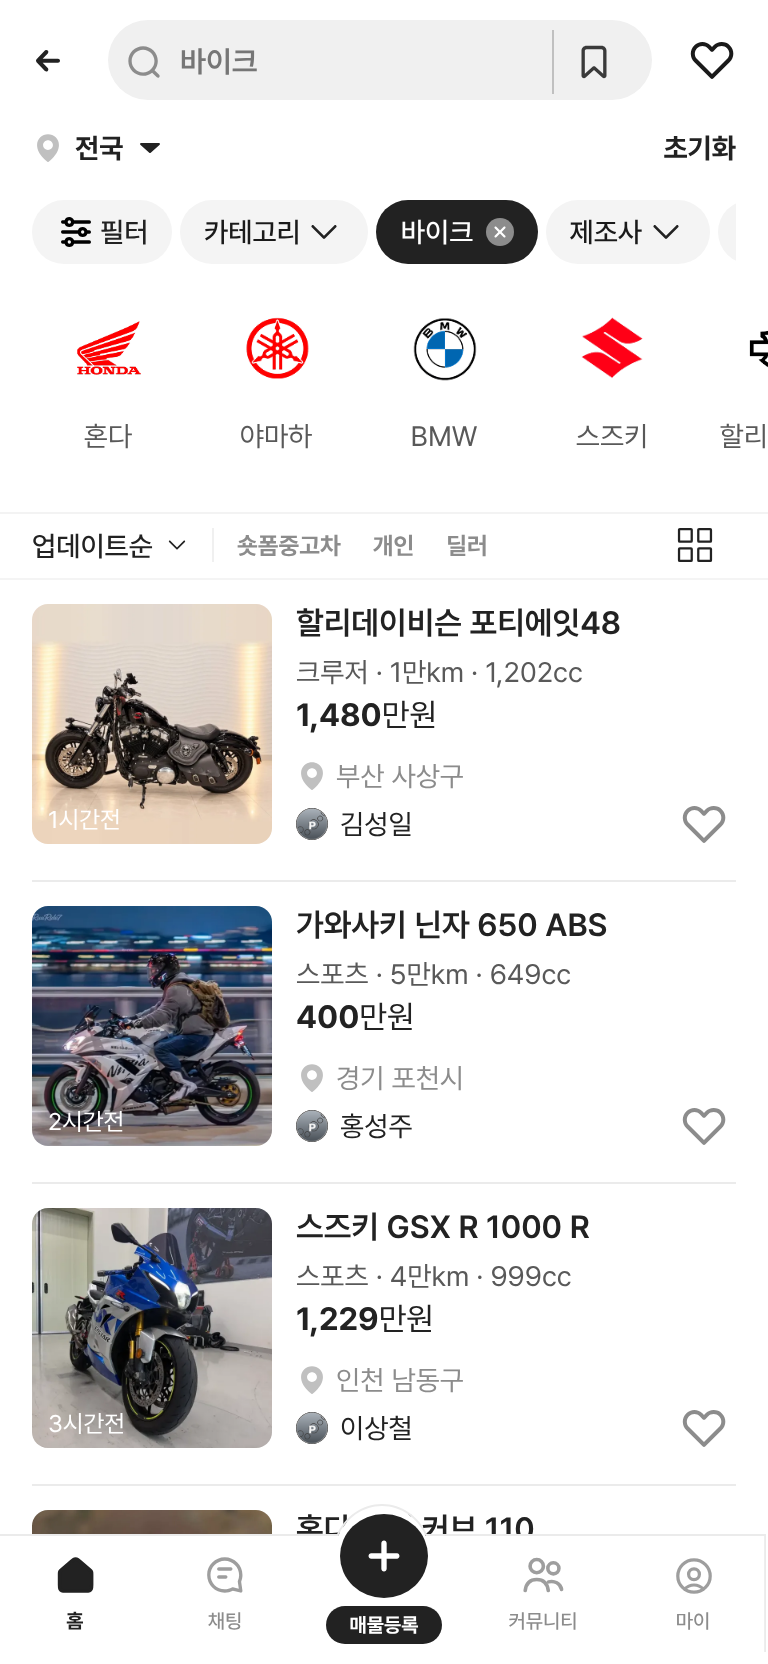
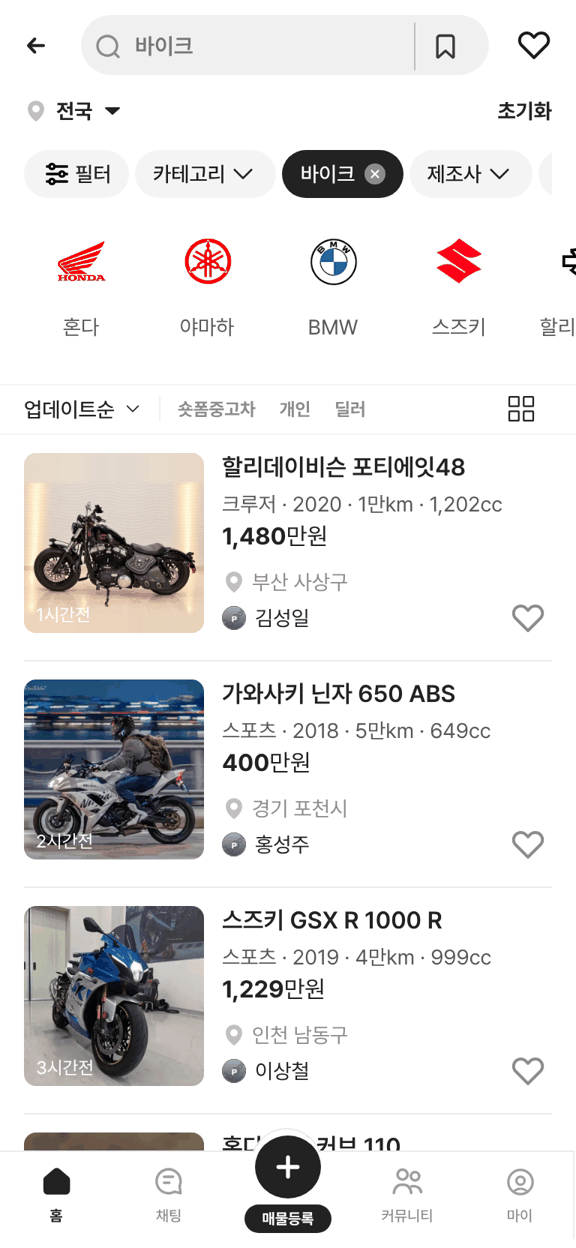
목록 카드 연식은 년식 글자 없이 숫자만 표기
Claude-Session: https://claude.ai/code/session_01Rmx988oHBPtkyNprxfe4A1

diff --git a/src/prototype/data/bbm-card-samples.ts b/src/prototype/data/bbm-card-samples.ts
@@ -27,9 +27,12 @@ const fuelLabel = (source: SampleSource) => {
   return fuel;
 };
 
-// 목록 카드 스펙 줄에는 「N년식」 글자를 넣지 않는다(2026-10-08 「년식 빼자 텍스트」 · 「전체차량 리스트에서도 빼라」)
+// 목록 카드 스펙 줄의 연식은 「년식」 글자 없이 숫자만(2017년식 → 2017, 2026-10-08 「2002 숫자만 표기하자」)
 export function bbmCardSpec(source: SampleSource, withPower = true) {
-  return cardSpecText(source, withPower).split(" · ").filter((part) => !/^\d{2,4}년식$/.test(part.trim())).join(" · ");
+  return cardSpecText(source, withPower).split(" · ").map((part) => {
+    const year = part.trim().match(/^(\d{2}|\d{4})년식$/);
+    return year ? (year[1].length === 2 ? `20${year[1]}` : year[1]) : part;
+  }).join(" · ");
 }
 
 function cardSpecText(source: SampleSource, withPower: boolean) {
@@ -76,8 +79,8 @@ function cardSpecText(source: SampleSource, withPower: boolean) {
     const power = [source.truck.horsepower ? `${source.truck.horsepower}마력` : "", inTitle(loadLabel) ? "" : loadLabel, inTitle(source.truck.drive ?? "") ? "" : source.truck.drive ?? ""].filter(Boolean);
     return [`${String(year % 100).padStart(2, "0")}년${String(month).padStart(2, "0")}월`, mileageLabel(source), fuelLabel(source), ...power].filter(Boolean).join(" · ");
   }
-  // 바이크 스펙 줄은 장르 · 주행 · 배기량(2026-10-08 「년식 빼자 텍스트」)
-  if (source.bike) return [source.bike.genre, mileageLabel(source), `${source.bike.displacement.toLocaleString("ko-KR")}cc`].join(" · ");
+  // 바이크 스펙 줄은 장르 · 연식(숫자만) · 주행 · 배기량(2026-10-08 「2002 숫자만 표기하자」)
+  if (source.bike) return [source.bike.genre, String(yearFromSpecs(source)), mileageLabel(source), `${source.bike.displacement.toLocaleString("ko-KR")}cc`].join(" · ");
   const year = yearFromSpecs(source);
   const month = ((source.id * 5) % 12) + 1;
   // 목록은 등록연월만 간결하게 표시한다. 연형은 상세 정보에서 다룬다.

diff --git a/src/prototype/data/index.tsx b/src/prototype/data/index.tsx
@@ -872,7 +872,7 @@ const virtualPlace = (address: string) => address.replace(/\s*·\s*가상 매물
 
 // 사용자 지시 매물(2026-10-07): 샘플 배지 없이 지시값 스펙 줄 고정
 const bikeListingOverridesV01: Record<string, { cardSpec: string[] }> = {
-  "bike-001": { cardSpec: ["크루저", "1만km", "1,202cc"] },
+  "bike-001": { cardSpec: ["크루저", "2020", "1만km", "1,202cc"] },
 };
 // 2026-10-08: 바이크 시트 매물(v08)은 게시일 최신순(같은 날은 시트 순서), 사용자 지시 매물 bike-001은 맨 위. updateRank로 업데이트순을 고정한다
 const bikeInventoryOrdered = [...bikeInventory].sort((a, b) => (a.postedDays ?? -1) - (b.postedDays ?? -1));

diff --git a/docs/quick-filter-spec.md b/docs/quick-filter-spec.md
@@ -258,8 +258,8 @@
 - A vehicle title is always two semantic rows, not one title that happens to wrap: row 1 is manufacturer + model (`.bbm-card-model`), and row 2 is detailed model/trim (`.bbm-card-trim`). Each row stays on one line and ellipsizes independently. Do not add an arbitrary margin between the detailed-model row and the specification row.
 - List view: title 15/19 600, specification 13px, location 14px #8C8C8C (whole line), seller 14px #222 (ChoTot remeasure: location and seller are the same size; Pretendard Hangul ≈0.87em so 14px matches ChoTot ink height ≈12.4), price 16px 700 #222, and price unit 400 #222 (no red; Hyundai-certified style, the unit only drops weight). Feed view: title 16/24, specification 14px, location 14px, price 17px 700, and price unit 14px.
 - 바이크 매물 v08(2026-10-08 「바이크 카테고리도 럭셔리카처럼 실제 매물 같은 정보로」): 바이크 목록은 사용자 지시 매물 `bike-001`(할리 포티에잇48, 맨 위) + 구글 시트 「가상 매물 시나리오 › 바이크」 50행(`src/prototype/bike/scenario-v08.ts`, 사진 `public/assets/bike/listings/v08/`)이다. v07의 나머지 가상 29대는 목록에서 뺐다. 제조사·모델·연식·주행·지역·가격·배기량·서류·판매자 기재 상태·튜닝·정비 요약은 시트 값 그대로, 장르·면허·변속기는 모델 기준으로 정한 값, 판매자 이름은 가상(개인 = 가상 인물 이름, 업체 = `가상 이름 딜러`). 라이트바겐 인증중고 매물만 「인증중고차」 배지(샘플 배지 없음), 업데이트순은 시트 게시일 최신순(`updateRank`, 게시 0일 = N시간 전 · 그 외 N일 전). 원본 상세 URL·매물 ID는 저장하지 않는다. 목록 썸네일은 럭셔리카 규칙 사본(43장, 근접 사진 5장 · 차 영역 오인 2장 제외).
-- 바이크 카드(2026-10-07): 제목은 `제조사 모델` 한 줄(2행 없음), 스펙 줄은 `장르 · 주행 · 배기량`(예: `네이키드 · 2만km · 2,300cc`, 2026-10-08 「년식 빼자 텍스트」로 연식 글자 제거).
-- 목록 카드 스펙 줄에는 「N년식」 글자를 넣지 않는다(2026-10-08 「년식 빼자 텍스트」 · 「전체차량 리스트에서도 빼라」). 전체차량과 모든 카테고리 목록에 같은 규칙(`bbmCardSpec`이 `N년식` 항목을 걸러냄)이며, 등록연월(`24년08월`)·연형(`18년형`)은 그대로 둔다. 상세 화면의 연식은 그대로다.
+- 바이크 카드(2026-10-07): 제목은 `제조사 모델` 한 줄(2행 없음), 스펙 줄은 `장르 · 연식 · 주행 · 배기량`(예: `네이키드 · 2023 · 2만km · 2,300cc`, 2026-10-08 「2002 숫자만 표기하자」로 연식은 숫자만).
+- 목록 카드 스펙 줄의 연식은 「년식」 글자 없이 네 자리 숫자만 쓴다(`2017년식` → `2017`, `24년식` → `2024`; 2026-10-08 「년식 빼자 텍스트」 · 「전체차량 리스트에서도」 · 「2002 숫자만 표기하자」). 전체차량과 모든 카테고리 목록에 같은 규칙(`bbmCardSpec`)이며, 등록연월(`24년08월`)·연형(`18년형`)은 그대로 둔다. 상세 화면의 연식은 그대로다.
 - 건설기계 카드: 제목은 `제조사 모델` 한 줄(2행 없음, 제조사 미확인 매물은 원래 매물명), 스펙 줄은 `등록연월 · 사용시간 · 연료`(`1,800시간`, 2026-10-08 「h → 시간」; 자재운반장비도 `480시간`).
 - 부품/용품 카드(2026-10-07): 제목 `제조사 모델 분류`(분류 낱말이 모델명에 있으면 생략), 스펙 줄 `규격 · 수량 · 적용 차종 · 상태`(예: `245/45R18 · 4개 · 그랜저 GN7 · 중고 80%`), 가격은 부품 가격대(`partsCardDetailsV01`, 3~420만원). 연식·연료·변속기·「해당 없음」은 넣지 않는다.
 - 부품/용품 필터(2026-10-07): 상단 칩은 연식·주행거리·연료 대신 `분류 · 상태 · 적용 차종 · 가격`. 좌측 필터·모바일 전체 필터 순서는 `partsFilterOrder`(브랜드 → 분류 → 상태 → 적용 차종 → 가격 → 지역). 가격 구간은 `partsPricePresets`(`~5만원 · 5~20만원 · 20~50만원 · 50~100만원 · 100~300만원 · 300만원~`)이고 리스·렌트 탭은 숨긴다. 상태는 `새 상품 · 미사용 · 중고`(중고 NN%는 중고로), 적용 차종의 `범용 5x112` 등은 `범용`으로 묶는다.
@@ -351,7 +351,7 @@
 - 트럭·특장 이미지·로고 퀵필터도 다른 카테고리와 동일하게 좌측 제목 슬롯을 사용하지 않는다. 형식·세부 형식·제조사·모델·세부모델은 PC 20px, 모바일 16px에서 바로 시작한다. 모바일 제조사 로고 반복 피치는 초톳과 같은 84px이고, 트럭 이미지 카드는 이미지 볼륨과 비겹침을 위해 기존 카드 폭·간격을 유지한다. 실사 이미지는 투명 원본의 가로 비율을 유지한 채 보이는 면을 모바일 76×48px, PC 88×55px로 잡는다.
 - 목록은 승용 샘플을 재사용하지 않고 `truck/scenario-v01.ts`의 가상 트럭 30대만 사용한다.
 - 형식·세부 형식·적재용량·규격·제조사·모델 선택은 같은 가상 매물 필드를 기준으로 목록과 제조사 대수를 함께 갱신한다.
-- 사용자 지시 건설기계 매물 `heavy-001`(「380」 자리를 교체) 볼보 EW60E 휠굴삭기(2017년식 · 880시간 · A+ · 경북 · 5,650만원, 사진 사용자 제공). 카드 스펙 줄 `880시간 · 디젤`(지시값 `2017년식`은 2026-10-08 「년식」 제거로 목록에서 숨김), 판매자는 가상 이름(실제 판매자 이름·연락처 미사용).
+- 사용자 지시 건설기계 매물 `heavy-001`(「380」 자리를 교체) 볼보 EW60E 휠굴삭기(2017년식 · 880시간 · A+ · 경북 · 5,650만원, 사진 사용자 제공). 카드 스펙 줄 `2017 · 880시간 · 디젤`(지시값 `2017년식`, 목록에서는 숫자만), 판매자는 가상 이름(실제 판매자 이름·연락처 미사용).
 - 사용자 지시 캠핑카 매물 `camping-001`(현대 쏠라티 캠퍼 자리를 교체) 하비 프리미엄 495UL(18년형 · 유럽식 견인형 카라반 · 4인용, 사진 사용자 제공). 카드 스펙 줄은 `virtualCardSpecV01`로 `카라반 · 18년형 · 취침 4명` 고정, 가격·지역·판매자는 자리 값 유지.
 - 사용자 지시 승용 매물 3004 페라리 GTC4 루쏘 T 3.9 V8(17년10월(18년형) · 31,135km · 가솔린 · 경기 · 18,990만원, 사진 사용자 제공). 모델 값은 카탈로그와 같은 `GTC4 루쏘`.
 - 사용자 지시 바이크 매물 `bike-001`(혼다 레블 500 자리를 교체) 할리데이비슨 포티에잇48(2020년식 · 12,980km · 1,202cc · 크루저 · 부산 사상구 · 개인 · 1,480만원, 사진 사용자 제공). 모델 값은 필터 목록과 같은 `포티에잇`.

diff --git a/reports/pr-291.md b/reports/pr-291.md
@@ -1,6 +1,6 @@
 # PR #291 바이크 카드 스펙 줄 연식 글자 제거
 
-① 한 줄 요약: 목록 카드 스펙 줄에서 「N년식」을 뺐다(바이크 + 전체차량 목록의 건설기계·지게차 등 모든 카테고리).
+① 한 줄 요약: 목록 카드 스펙 줄의 연식을 「년식」 글자 없이 숫자만 표기한다(`2020년식` → `2020`, 바이크 + 전체차량·모든 카테고리).
 
 ② 과제 ID 미지정 · 브랜치 `claude/usedcar-list-detail-category-otcx1u` · 커밋 c62f18a · PR https://github.com/bobaekimboae/bobaedream/pull/291 · 상태: 푸시(병합·배포 전)
 
@@ -24,3 +24,9 @@
 ⑦ 못 한 것: 상세 화면의 연식 정보는 그대로 둠(목록 카드만 요청으로 해석)
 
 ⑧ 확인 링크(배포 후 `&v=<커밋>`): 모바일 `?qf=guazi&category=바이크`, PC `?qf=guazi&category=바이크&pc=1`
+
+
+## 수정(「2002 숫자만 표기하자」)
+- 연식을 통째로 빼던 것을 되돌려, `년식` 글자만 빼고 네 자리 숫자를 남겼다: 바이크 `크루저 · 2020 · 1만km · 1,202cc`, 볼보 EW60E `2017 · 880시간 · 디젤`, 현대 25B-9F `2018 · 480시간 · 전기`.
+- 두 자리(`24년식`)는 `2024`로 맞춘다. 등록연월(`16년10월`)·연형(`18년형`)은 그대로.
+- 전 카테고리 모든 페이지 「년식」 0건, 콘솔 오류 0, verify:qf 통과.
